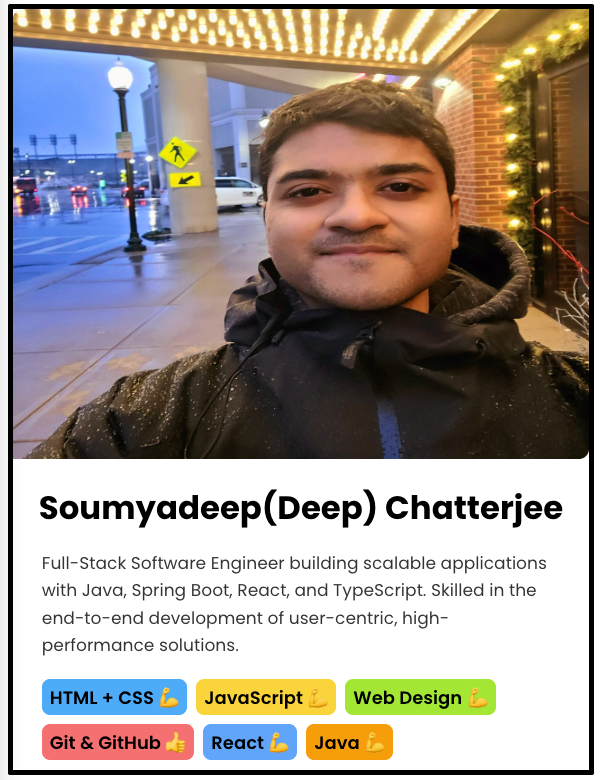
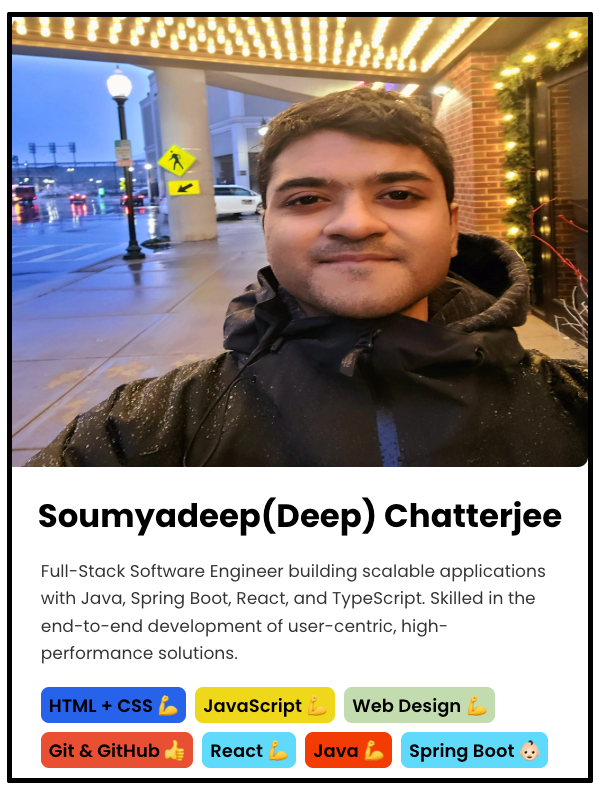
profile card

diff --git a/profile-card/src/App.js b/profile-card/src/App.js
@@ -1,6 +1,57 @@
 import './App.css';
 import myPic from './assets/WhatsApp Image 2024-03-06 at 12.35.11 AM.jpeg';
 
+const skills = [
+  {
+    name: "HTML + CSS",
+    level: "advanced",
+    color: "#2662EA"
+  },
+  {
+    name: "JavaScript",
+    level: "advanced",
+    color: "#EFD81D"
+  },
+  {
+    name: "Web Design",
+    level: "advanced",
+    color: "#C3DCAF"
+  },
+  {
+    name: "Git & GitHub",
+    level: "intermediate",
+    color: "#E84F33"
+  },
+  {
+    name: "React",
+    level: "advanced",
+    color: "#60DAFB"
+  },
+  {
+    name: "Java",
+    level: "advanced",
+    color: "#FF3B00"
+  },
+  {
+    name: "Spring Boot",
+    level: "beginner",
+    color: "#60DAFB"
+  }
+];
+
+const levelEmoji = {
+  beginner: "👶🏻",
+  intermediate: "👍",
+  advanced: "💪"
+}
+
+function Skill({keyName, name, color, level}){
+  return(
+      <span key={keyName} className='skill' style={{background: color}}>{name} {levelEmoji[level]}</span>
+  );
+};
+
+
 function App() {
   return (
    <div className='main-container'>
@@ -16,12 +67,16 @@ in the end-to-end development of user-centric, high-performance solutions.</p>
     </div>
     <div className='skills'>
       <div className='skills-box'>
-        <span className='skill html'>HTML + CSS 💪</span>
-        <span className='skill js'>JavaScript 💪</span>
-        <span className='skill web'>Web Design 💪</span>
-        <span className='skill git'>Git & GitHub 👍</span>
-        <span className='skill react'>React 💪</span>
-        <span className='skill java'>Java 💪</span>
+        {
+          skills.map(skill => (
+            <Skill
+              key = {skill.name}
+              name = {skill.name}
+              color = {skill.color}
+              level = {skill.level}
+            />
+          ))
+        }
       </div>
     </div>
    </div>
